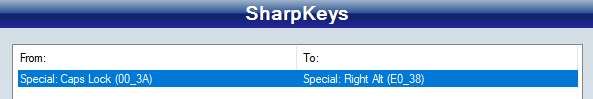
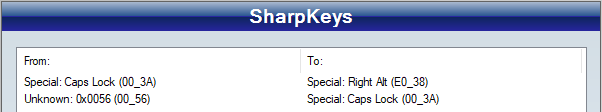
readme

Changed region(s): [[0.0, 0.0, 1.0, 1.0], [0.4857, 0.4848, 0.5464, 0.6364]]

diff --git a/copy.md b/copy.md
@@ -4,9 +4,9 @@ Slovak programming keyboard layout. For convenient writing both Slovak and Code.
 
 Download installation files https://github.com/jergusg/SK-Prog-Keyboard/releases
 
-## Slovak (Prog)
+## Slovak - Prog
 
-Slovak (Prog) is standard English (US) keyboard layout with added 3rd and 4th level for Slovak letters and special symbols.
+*Slovak - Prog* is standard English (US) keyboard layout with added 3rd and 4th level for Slovak letters and special symbols.
 
 ![Slovak (Prog)](./SK-Prog.svg)
 
@@ -15,7 +15,7 @@ It simply means holding modifier key `Shift` or `AltGr` while pressing a normal 
 
 ![Levels](./Levels.svg)
 
-In addition to `AltGr`, I encourge you to create a new 3rd level modifier key on the left side of keyboard so writing is balanced for both hands. I recommed mapping `CapsLock` for this purpouse, as it is not often used nowadays and there are also software alternatives for its function. Another option is mapping this strange `backslash key` next to Left Shift.
+In addition to `AltGr`, I encourge you to create a new 3rd level modifier key on the left side of keyboard so writing is balanced for both hands. I recommed mapping `CapsLock` for this purpouse, as it is not often used nowadays and there are also software alternatives for its function. Another option is mapping this strange `backslash key` next to Left Shift to `AltGr`. Or you can move `CapsLock` to this `backslash key` (picture below).
 
 
 ## Windows
@@ -25,7 +25,12 @@ Unzip and run `setup.exe`, reboot. You can set the layout through windows settin
 
 Install and run SharpKeys. Press *Add* to add new key mapping. Then select or type corresponding keys (Right Alt needs to be selected).
 
+Example:
+
 ![SharpKeys](./sharpkeys.png)
+
+First line is mapping `CapsLock` to `AltGr`.  
+Second line is mapping `backslash key` (key next to Left Shift) to `CapsLock`.
 
 Press *Write to Registry* and reboot. Mapping can be removed any time later.
 
@@ -48,12 +53,13 @@ Then reboot.
 
 The script inserts SK-Prog layout from `sk-prog` file into `/usr/share/X11/xkb/symbols/sk` file, where Slovak layouts are located. It also adds entry to `/usr/share/X11/xkb/rules/evdev.xml` for system to register the new layout.
 
+Mapping `CapsLock` to `AltGr` is diffrent in every linux desktop environment. If you have GNOME use *GNOME Tweak Tool*. KDE has this option in settings. On Ubuntu (Unity) it is: *System Settings* > *Keyboard* > *Shortcuts* > *Typing* > *Alternative Characters Key*. Or you can search google for the right command, such as `dconf write /org/gnome/desktop/input-sources/xkb-options "['lv3:caps_switch']"`.
 
 ## Android
 Works with [External Keyboard Helper](http://www.apedroid.com/android-applications/external-keyboard-helper).
 
 The application needs *Storage permissions* enabled from android settings.  
-Copy `ekh_backup.dat` to `Internal storage` root. In the application *EKH Settings*: **Choose keyboard layout > Custom 1 (or Custom 2)**. Then in the application: **Advanced settings > Keyboard mapping > Customize keyboard mappings > ⋮ (settings) > Restore**.
+Copy `ekh_backup.dat` to `Internal storage` root. In the application *EKH Settings*: *Choose keyboard layout > Custom 1 (or Custom 2)*. Then in the application: *Advanced settings* > *Keyboard mapping* > *Customize keyboard mappings* > ⋮ (*settings*) > *Restore*.
 
 ## Acknowledgements
 
